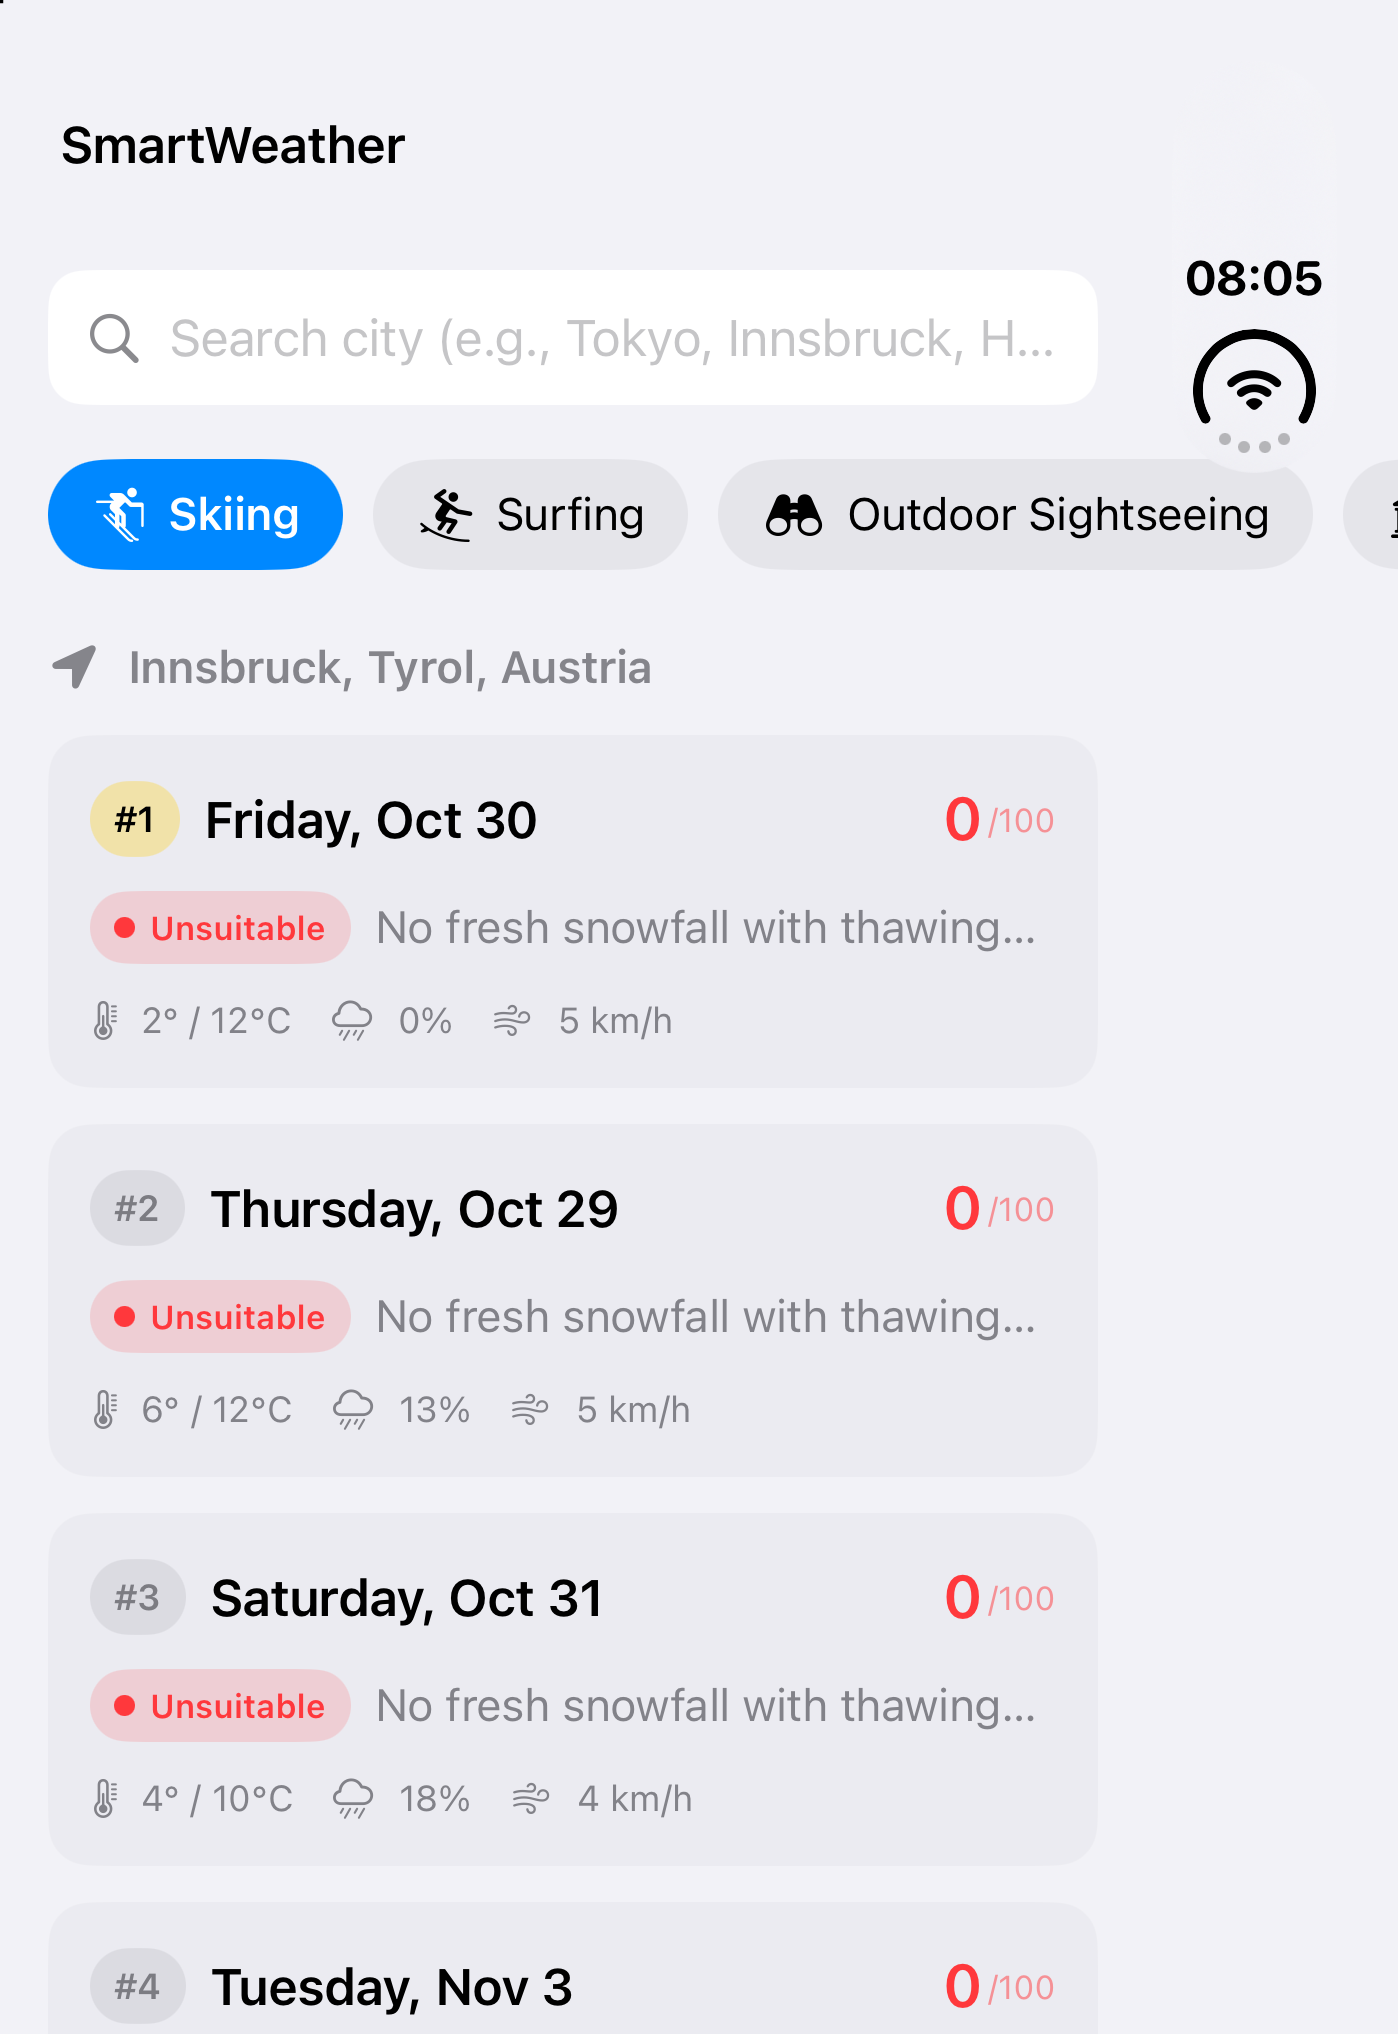
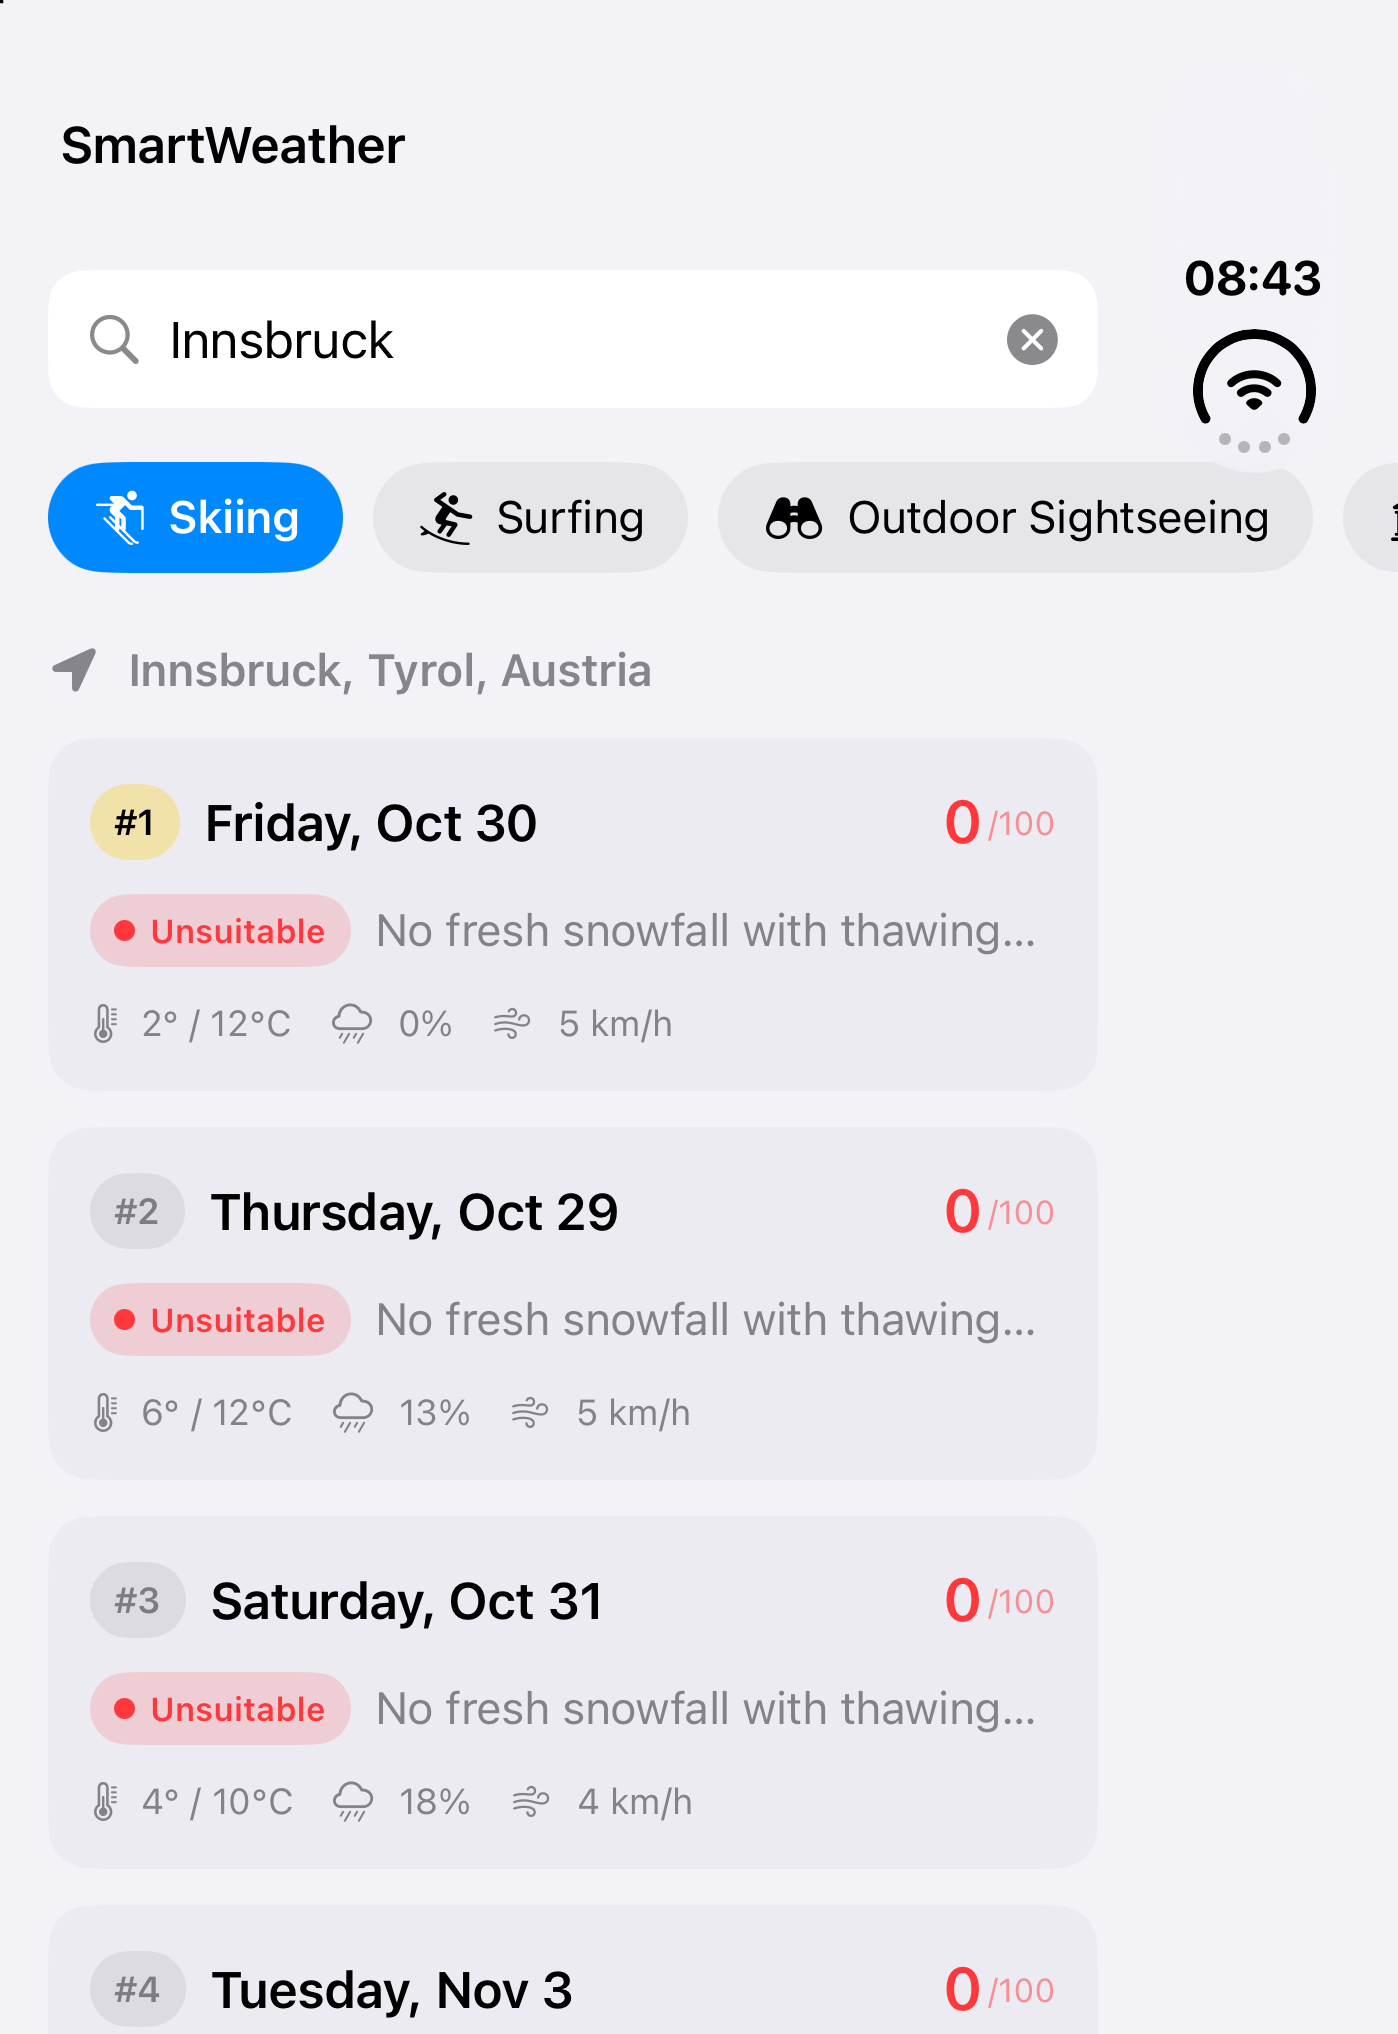
fix(search): populate search field with full city name upon location selection

diff --git a/SmartWeatherTests/WeatherPlannerViewModelTests.swift b/SmartWeatherTests/WeatherPlannerViewModelTests.swift
@@ -128,6 +128,18 @@ struct WeatherPlannerViewModelTests {
         #expect(vm.selectedDay?.rank == 1)
     }
 
+    @Test("Selecting a location updates search query with selected city name")
+    func selectLocationUpdatesSearchQuery() async {
+        let mock = MockWeatherService()
+        let vm = WeatherPlannerViewModel(weatherService: mock, debounceNanoseconds: 0)
+        vm.searchQuery = "Inns"
+
+        await vm.selectLocation(sampleLocation).value
+
+        #expect(vm.searchQuery == "Innsbruck")
+        #expect(vm.selectedLocation?.name == "Innsbruck")
+    }
+
     @Test("Selecting location handles forecast failure with error message")
     func selectLocationError() async {
         let mock = MockWeatherService()

diff --git a/SmartWeather/Presentation/ViewModels/WeatherPlannerViewModel.swift b/SmartWeather/Presentation/ViewModels/WeatherPlannerViewModel.swift
@@ -98,6 +98,7 @@ public final class WeatherPlannerViewModel {
         searchTask = nil
         forecastTask?.cancel()
 
+        searchQuery = location.name
         selectedLocation = location
         searchResults = []
         isSearching = false

diff --git a/ENGINEERING_NOTES.md b/ENGINEERING_NOTES.md
@@ -135,3 +135,11 @@
   - `Tools/record-demo.sh`: Repeatable video capture utility using `simctl io recordVideo`.
 - **Commit**: `2960d9d feat(verification): capture iPhone Duo simulator dual-display screenshots and demo recordings`
 
+### Cycle 12E: Search Field Synchronization on Location Selection
+- **Behavior under test**: When a user enters a partial query (e.g. "Chopt") and selects a location from the autocomplete dropdown (e.g. "Chopta, Uttarakhand, India"), the search field text must immediately update to the selected city's full name (`location.name`), maintaining single source of truth across `@Observable WeatherPlannerViewModel` and `LocationSearchBar`.
+- **Test defined**: `@Test("Selecting a location updates search query with selected city name")` in `SmartWeatherTests/WeatherPlannerViewModelTests.swift`.
+- **Expected failure observed**: `Expectation failed: vm.searchQuery == "Innsbruck" (observed: "Inns")`.
+- **Minimum implementation**: Assigned `searchQuery = location.name` inside `selectLocation(_:)` in `SmartWeather/Presentation/ViewModels/WeatherPlannerViewModel.swift` alongside existing clearing of search results and in-flight search task cancellation.
+- **Passing outcome**: All 44 tests in 10 suites passed in 0.055s. Code coverage maintained at 88.52%. Security scan passed with 0 findings.
+
+
